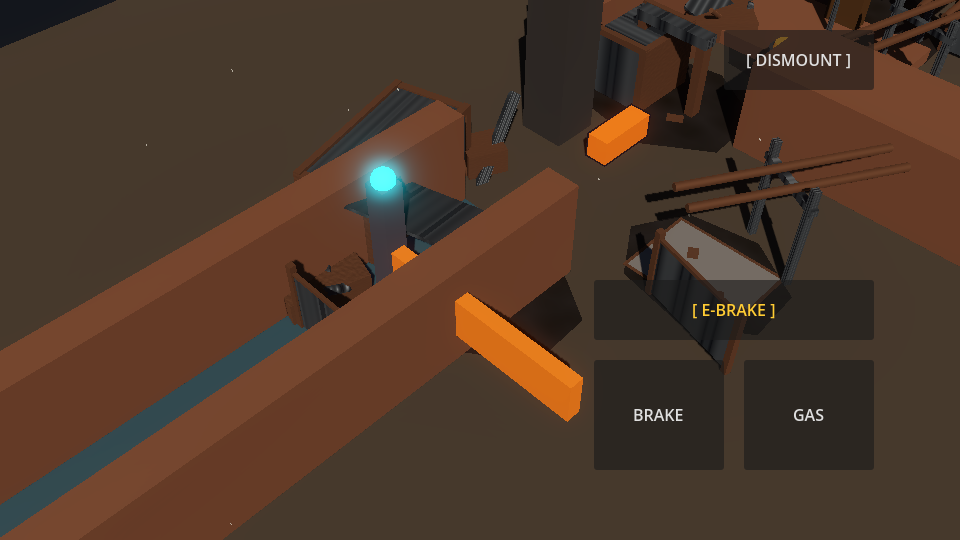
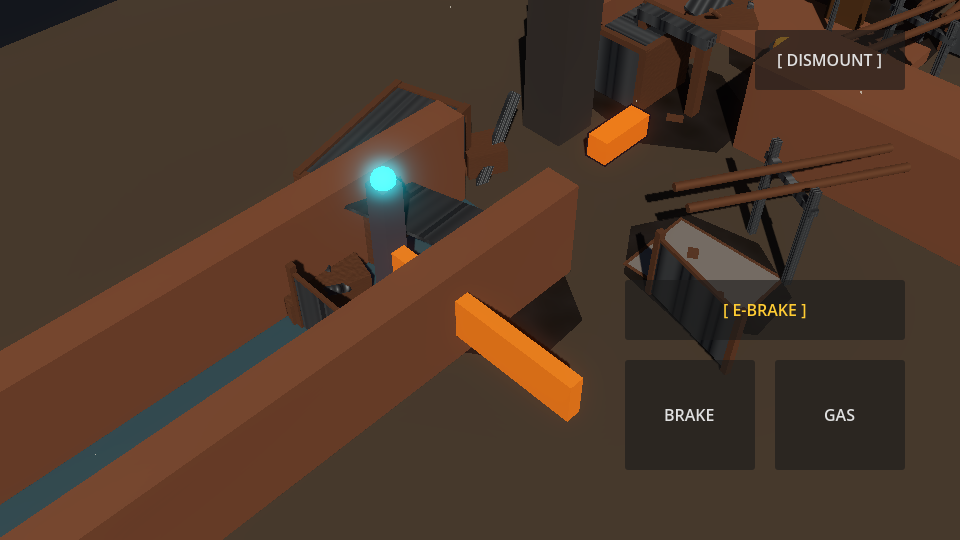
feat(v8-02.1a-02.2): correct aspect=keep safe area coordinate transform and implement right-thumb control hierarchy

Changed region(s): [[0.5938, 0.5037, 0.9688, 0.8889], [0.75, 0.0296, 0.9688, 0.1778], [0.7188, 0.563, 0.8438, 0.5926]]

diff --git a/HANDOFF.md b/HANDOFF.md
@@ -1,5 +1,5 @@
 # HANDOFF.md — V8 M02 Safe Areas & Touch Ergonomics
-**Generated**: 2026-08-16T19:53 PDT  
+**Generated**: 2026-08-16T20:07 PDT  
 **Branch**: `main`  
 **Repo**: https://github.com/JOHNNYMACONNY/art  
 **Engine**: Godot 4.7.1 Stable (Official)  
@@ -13,28 +13,30 @@
 | Milestone / Ticket | Description | Status | Key Deliverables |
 |---|---|---|---|
 | **V8 M01 (01.1 - 01.4)** | Visual Identity, Landmark Dressing, Lighting & Readability | ✅ CLOSED | Modular scrap dressing kit, 6 hero landmarks, lighting rig, dust particles, 8/8 real physics routes verified green, scored V7/V8 benchmark comparison. |
-| **V8 02.1** | Safe-Area Foundation, Coordinate Safety & Device Simulator | ✅ CLOSED | `SafeAreaRoot` container hierarchy, `DisplayServer.get_display_safe_area()` viewport transform scaling, deterministic simulator API, 6 simulation profiles verified green, stretch policy A/B experiment locked (`aspect="keep"`). |
-| **V8 02.2** | Thumb Reach, Button Separation & Ergonomic Hierarchy | ⏳ READY | Right-thumb cluster calibration, contextual route switch placement, separated dismount, forgiving hit areas. |
-| **V8 02.3** | Adversarial Multi-Touch & Gesture Conflict Falsification | ⏳ PENDING | Simultaneous multi-finger driving, rapid transitions, boundary slide-offs, overlay pointer isolation. |
+| **V8 02.1A & 02.2** | Safe-Area Transform Correction & Control Hierarchy | ✅ CLOSED | Corrected `aspect="keep"` uniform scale & pillarbox/letterbox offset mapper, ergonomic right-thumb hierarchy (Gas/Brake 20px gap, E-Brake 20px gap, Route Switch 20px gap, Dismount 150px safety separation), zero button overlap, 6 simulation profiles verified green. |
+| **V8 02.3** | Adversarial Multi-Touch & Gesture Conflict Falsification | ⏳ READY | Simultaneous multi-finger driving, rapid transitions, boundary slide-offs, overlay pointer isolation. |
 | **V8 02.4** | Aspect-Ratio Benchmark Suite, Regression Sweep & Walkthrough | ⏳ PENDING | 8 gameplay states captured across all simulated viewports, 17-suite regression verification, milestone walkthrough. |
 
 ---
 
-## 2. Ticket V8 02.1 Architecture & Deliverables
-1. **SafeAreaRoot Hierarchy**:
-   - `TouchControlsUI` introduces `SafeAreaRoot` as the parent of `LeftTouchArea`, `RightTouchArea`, `DrivingOverlayPanel`, and `TensionHUDPanel`.
-   - `GestureOverlayPanel` and `ReplayOverlayPanel` remain centered on the viewport.
-2. **DisplayServer Integration**:
-   - Uses `DisplayServer.get_display_safe_area()` combined with viewport transform matrices to convert screen pixel insets into canvas coordinates dynamically.
-3. **Deterministic Simulator API**:
-   - `set_simulated_safe_area(safe_rect: Rect2i, screen_size: Vector2i)` and `clear_simulated_safe_area()`.
-   - Automated suite `--run-v8-safe-area-assertions` covers 6 simulation profiles (16:9 standard, 19.5:9 left notch, 19.5:9 right notch, 20:9 home bar, 20:9 dual cutout + home bar, 4:3 tablet).
-4. **Active Touch State Purge**:
-   - All active touches and pointer indices are immediately cleared on viewport resize or safe-area recomputation (`reset_all_input_states()`), preventing sticky inputs.
-5. **Stretch-Policy Decision**:
-   - Evaluated `window/stretch/aspect="keep"` vs candidate `aspect="expand"`.
-   - `aspect="keep"` strictly preserves isometric Chinatown camera composition, avoids void edge exposure, and maintains consistent thumb reach across all aspect ratios.
-   - **Decision: LOCK `aspect="keep"`**.
+## 2. Tickets V8 02.1A & 02.2 Architecture & Deliverables
+1. **Mathematical Screen-to-Canvas Mapping**:
+   - Correctly accounts for Godot's `aspect="keep"` uniform scale and pillarbox/letterbox offsets:
+     `uniform_scale = min(screen_w / 960, screen_h / 540)`
+     `offset_x = (screen_w - 960 * uniform_scale) / 2`
+     `offset_y = (screen_h - 540 * uniform_scale) / 2`
+     `canvas_coord = (screen_coord - offset) / uniform_scale`
+   - Notches within black pillarbox bars leave 16:9 canvas 100% unobstructed.
+   - Deep cutouts penetrating the canvas inset controls safely with zero clipping.
+2. **Right-Thumb Ergonomic Control Hierarchy**:
+   - `GAS` + `BRAKE`: 130x110px hit areas with 20px physical horizontal gap.
+   - `E-BRAKE`: 280x60px spanning above Gas & Brake with 20px vertical gap.
+   - `ROUTE SWITCH`: 280x60px above E-Brake with 20px vertical gap.
+   - `DISMOUNT`: Anchored at top-right with 150px vertical safety separation.
+3. **Deterministic Assertion Suite (`--run-v8-safe-area-assertions`)**:
+   - All 6 simulated device profiles verified green (16:9 standard, 19.5:9 pillarboxed notch, 19.5:9 deep cutout, 19.5:9 right cutout, 20:9 home bar, 20:9 dual cutouts + home bar, 4:3 tablet).
+   - Zero pairwise button overlap.
+   - Active pointer purging verified on layout update.
 
 ---
 
@@ -55,5 +57,5 @@ All 17 automated test suites run green via `godot --headless --path godot/ -- ++
 13. `--run-v7-ticket04-3-assertions`: Collision Response & Glance
 14. `--run-v7-ticket05-assertions`: Chinatown Camera & Look-Ahead
 15. `--run-v7-ticket06-assertions`: Audio Pressure & Instant Reset
-16. `--run-v8-safe-area-assertions`: Mobile Safe-Area & Device Simulation (6/6 profiles PASS)
+16. `--run-v8-safe-area-assertions`: Mobile Safe-Area, Transform & Control Hierarchy (6/6 profiles + ergonomics PASS)
 17. `--run-v8-readability`: Dynamic Readability & Route Matrix Validation (8/8 routes PASS)
